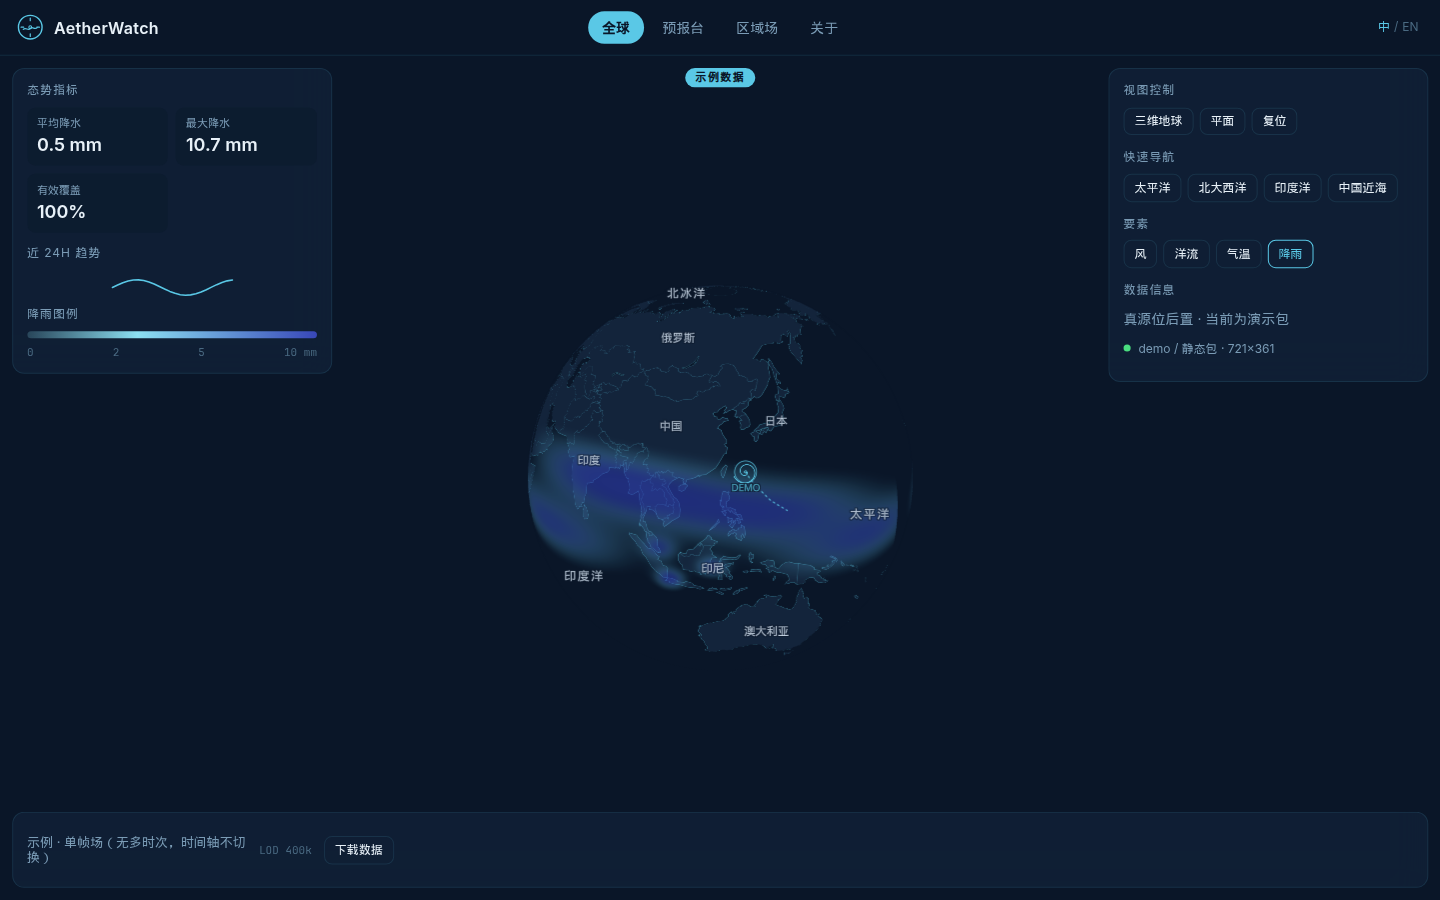
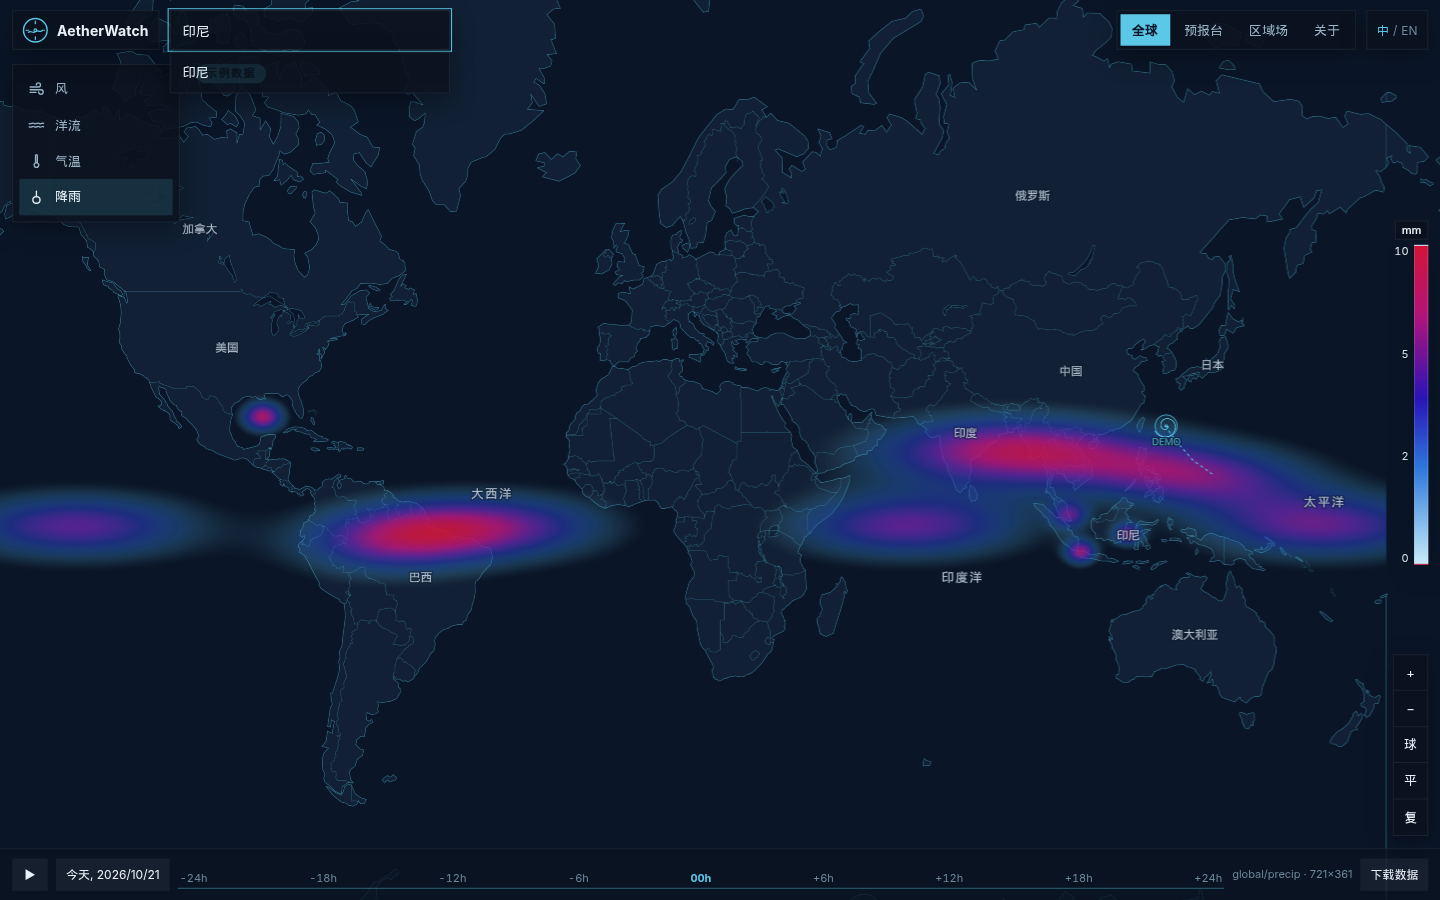
feat: default global to mercator so the weather field fills the view
Ventusky-style first pass is a flat, full-bleed color field. Globe
stays one click away. Screenshots: wind / temp / precip on own packs.

diff --git a/apps/web/src/map/runtime.ts b/apps/web/src/map/runtime.ts
@@ -25,7 +25,7 @@ export const mapRuntime: {
 }
 
 export const CAMERAS = {
-  global: { center: [120, 22] as [number, number], zoom: 1.35, pitch: 0, bearing: 0, globe: true },
+  global: { center: [20, 18] as [number, number], zoom: 1.55, pitch: 0, bearing: 0, globe: false },
   desk: { center: [105, 36] as [number, number], zoom: 3.4, pitch: 0, bearing: 0, globe: false },
   regional: { center: [124.5, 28.2] as [number, number], zoom: 5.1, pitch: 0, bearing: 0, globe: false },
   about: { center: [120, 22] as [number, number], zoom: 1.2, pitch: 0, bearing: 0, globe: true },
